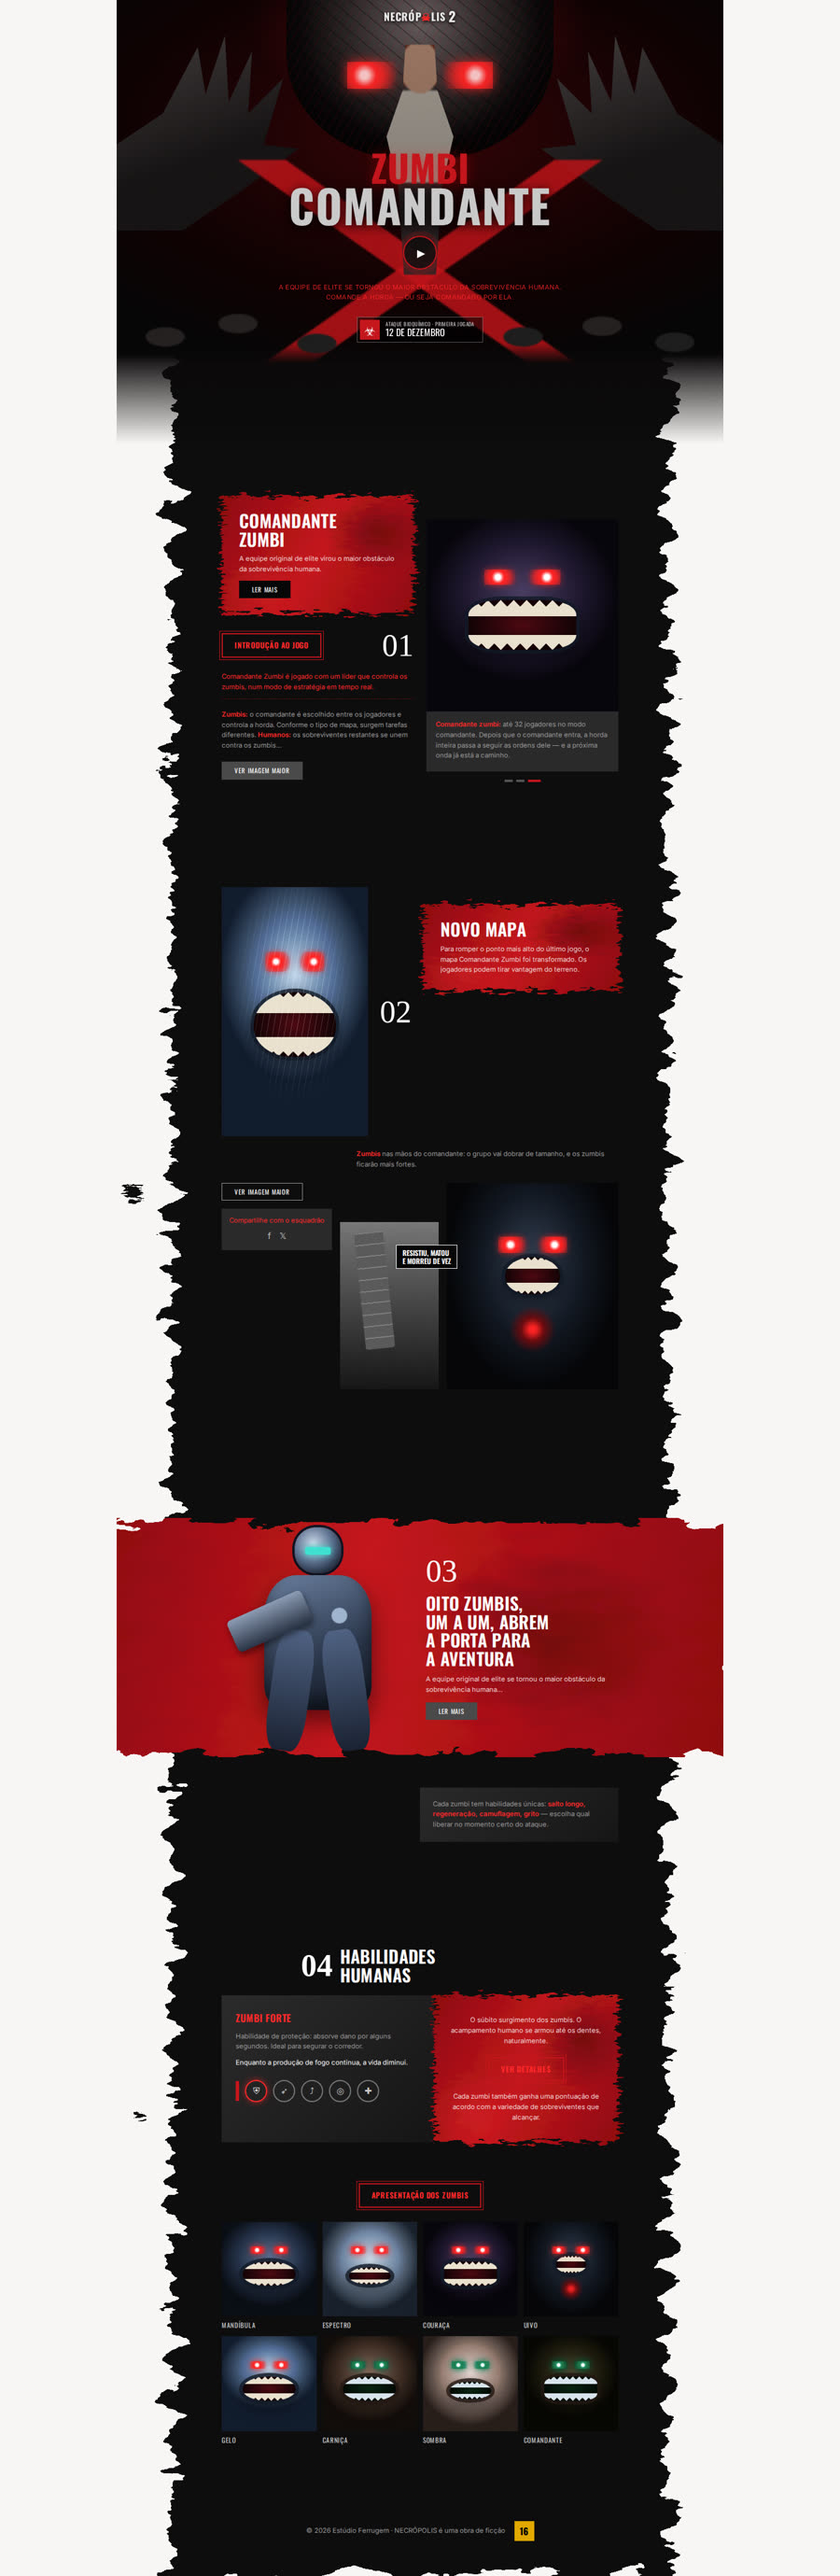
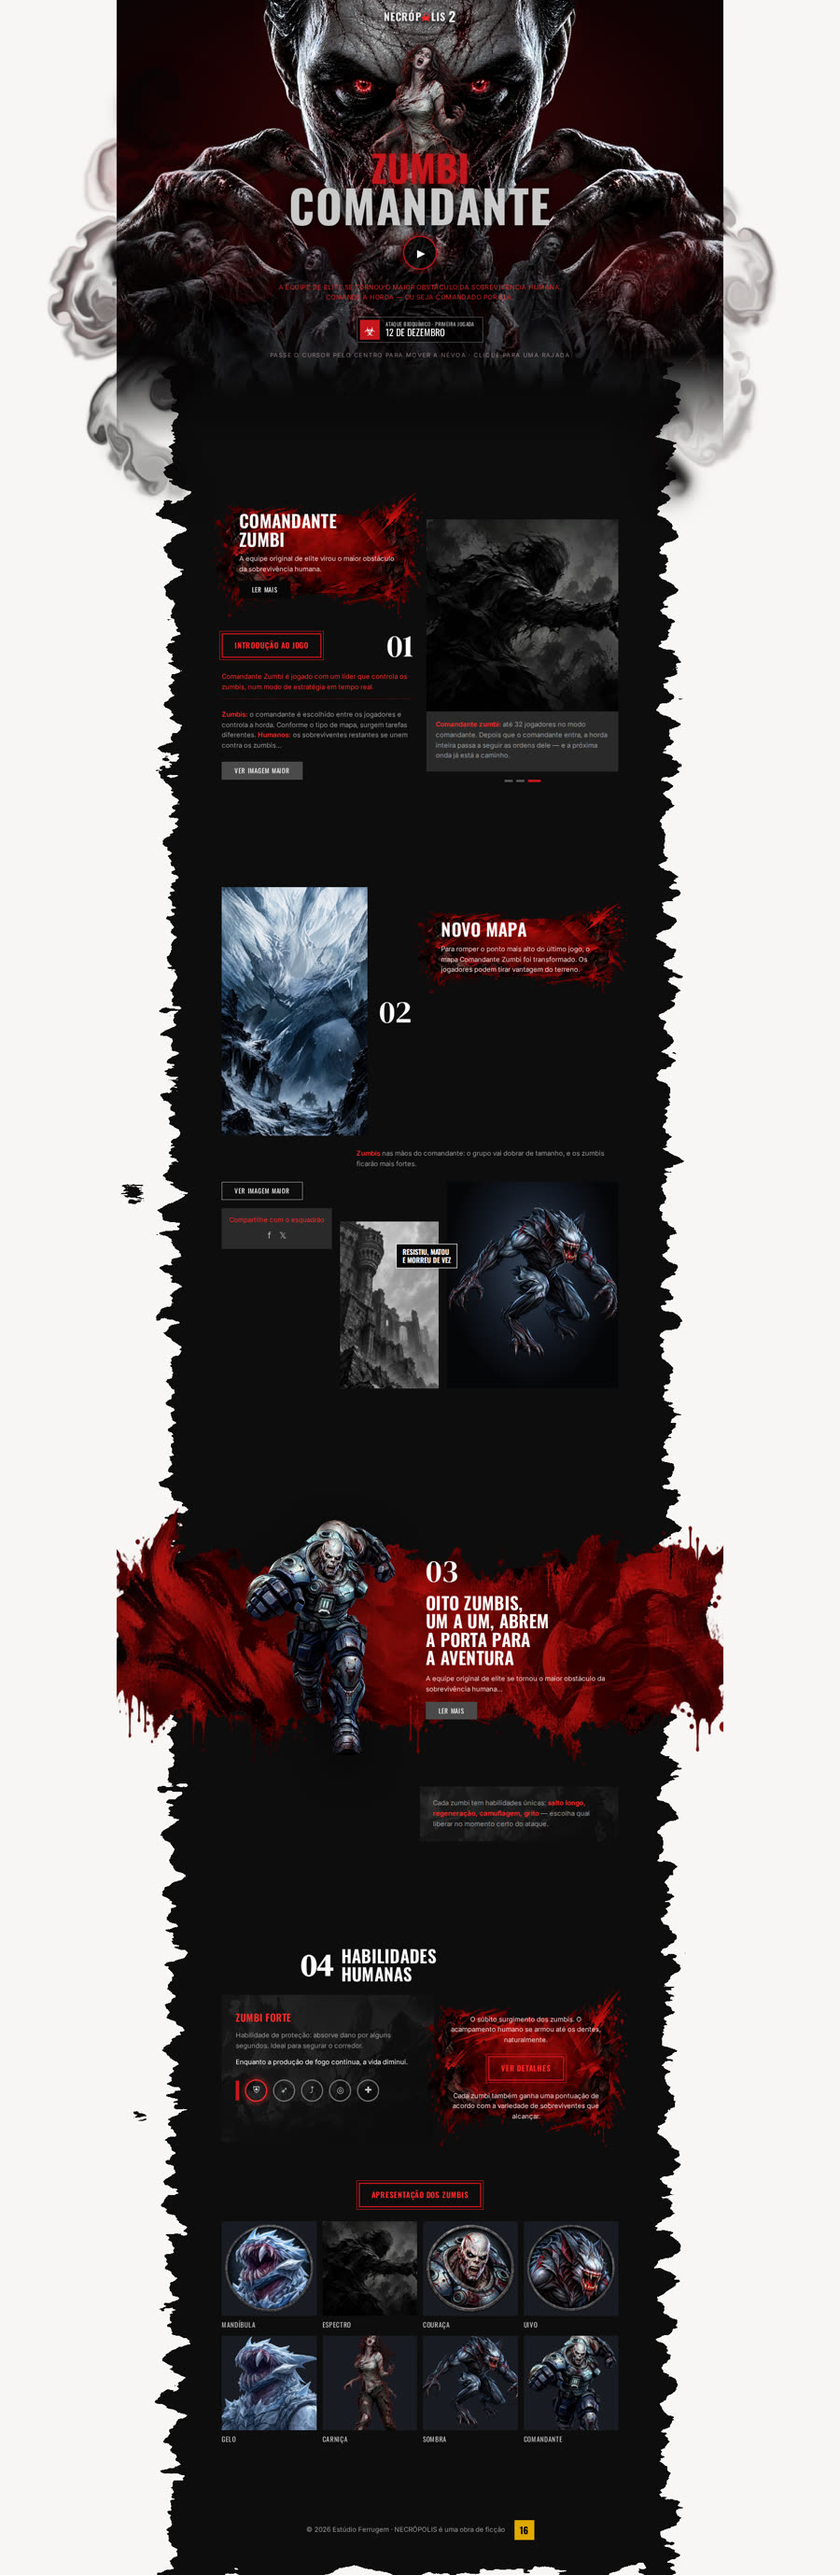
caso-12: imagens do Codex no lugar das composições em CSS
Usa as imagens de imagens-codex/01a10770…, convertidas para webp e
otimizadas (38 MB → 2,6 MB) em assets/fotos/:
- hero em camadas: rosto com garras, sobrevivente e horda;
- painéis 01/02/04 com a moldura em pincel e a faixa vermelha do 03;
- carrossel do 01 (fera de gelo, lobisomem, espectro), mapa 02
  (caverna de gelo, ruínas, lobisomem), soldado do 03;
- cartões escuros com a paisagem de fumaça;
- galeria com os medalhões (mandíbula, couraça, uivo) e as criaturas.
Remove o desenho em CSS que essas imagens substituem.

Claude-Session: https://claude.ai/code/session_01AG5rTn6CWeWC3iARPbKf2L

diff --git a/caso-12-jogo-necropolis/assets/styles.css b/caso-12-jogo-necropolis/assets/styles.css
@@ -96,26 +96,16 @@ a.btn3:hover { background: var(--red); color: #fff; }
 
 /* criaturas */
 .beast { background-image: radial-gradient(ellipse 60% 55% at 50% 40%, #6f8bb0, #2a3a55 55%, #0b1018 90%); }
-.beast .maw {
-  left: 22%; right: 22%; top: 42%; height: 26%;
-  border-radius: 50% 50% 46% 46%;
-  background:
-    conic-gradient(from 135deg at 50% 0, #ece5d4 90deg, transparent 0) 0 0 / 12% 32% repeat-x,
-    conic-gradient(from -45deg at 50% 100%, #ece5d4 90deg, transparent 0) 0 100% / 12% 30% repeat-x,
-    radial-gradient(ellipse at 50% 50%, #5a0a14, #160306 70%);
-  box-shadow: 0 0 0 6px rgba(20, 30, 45, .8), 0 10px 30px rgba(0, 0, 0, .6);
-}
-.beast .eyes { left: 30%; right: 30%; top: 26%; height: 8%; background: radial-gradient(circle at 18% 50%, #fff 0 4%, var(--red-glow) 10%, transparent 30%), radial-gradient(circle at 82% 50%, #fff 0 4%, var(--red-glow) 10%, transparent 30%); filter: drop-shadow(0 0 6px var(--red-glow)); }
 .beast-2 { background-image: radial-gradient(ellipse 60% 60% at 50% 40%, #d7e3ef, #7f94ad 50%, #1c2633 90%); }
-.beast-2 .maw { top: 48%; height: 18%; left: 28%; right: 28%; }
 .beast-3 { background-image: radial-gradient(ellipse 55% 50% at 50% 40%, #5b4d79, #241c37 55%, #08060d 90%); }
-.beast-3 .maw { border-radius: 30%; }
 .beast-wolf { background-image: radial-gradient(ellipse 50% 60% at 50% 40%, #3e4d63, #141b26 60%, #050608); }
-.beast-wolf .maw { top: 36%; left: 34%; right: 34%; height: 18%; }
-.beast-wolf::before { content: ""; position: absolute; left: 34%; right: 34%; top: 58%; height: 26%; background: radial-gradient(circle, var(--red-glow) 0 8%, #7a0c10 30%, transparent 60%); filter: blur(2px); z-index: 1; }
 .beast-tall { background-image: radial-gradient(ellipse 60% 50% at 50% 35%, #c9dbec, #5f7ea3 45%, #142135 85%); }
-.beast-tall .fur { inset: 0; background: repeating-linear-gradient(100deg, transparent 0 9px, rgba(255, 255, 255, .25) 9px 10px); -webkit-mask: radial-gradient(ellipse 60% 70% at 50% 40%, #000 30%, transparent 70%); mask: radial-gradient(ellipse 60% 70% at 50% 40%, #000 30%, transparent 70%); }
-.mini.alt { filter: hue-rotate(160deg) saturate(.7); }
+
+/* imagens reais (assets/fotos/*.webp) */
+.pic img { display: block; width: 100%; height: 100%; object-fit: cover; }
+.pic.fit-contain img { object-fit: contain; }
+.pic.fit-cover-top img { object-position: 50% 12%; }
+.pic::after { mix-blend-mode: overlay; opacity: .5; }
 
 /* =========================================================
    HERO
@@ -133,17 +123,10 @@ a.btn3:hover { background: var(--red); color: #fff; }
   -webkit-mask: linear-gradient(180deg, #000 80%, transparent);
           mask: linear-gradient(180deg, #000 80%, transparent);
 }
-.hero-art::after { mix-blend-mode: soft-light; }
-.zface { left: 28%; right: 28%; top: -16%; height: 52%; border-radius: 0 0 46% 46%; background: radial-gradient(ellipse 50% 60% at 50% 40%, #6d6464, #2f2a2a 55%, #0d0b0b 90%); box-shadow: inset 0 -30px 60px rgba(0, 0, 0, .8); }
-.zface::before { content: ""; position: absolute; inset: 0; background: repeating-linear-gradient(120deg, transparent 0 12px, rgba(170, 20, 25, .22) 12px 13px), repeating-linear-gradient(40deg, transparent 0 18px, rgba(0, 0, 0, .3) 18px 20px); border-radius: inherit; }
-.zeyes { left: 38%; right: 38%; top: 14%; height: 6%; background: radial-gradient(circle at 12% 50%, #ffd0d0 0 3%, var(--red-glow) 9%, transparent 26%), radial-gradient(circle at 88% 50%, #ffd0d0 0 3%, var(--red-glow) 9%, transparent 26%); filter: drop-shadow(0 0 10px var(--red-glow)); animation: eyes 3.8s ease-in-out infinite; }
-@keyframes eyes { 50% { opacity: .55; } }
-.claw { top: 8%; width: 32%; height: 44%; background: linear-gradient(160deg, #4a4545, #1a1717 60%); filter: blur(.6px) drop-shadow(0 8px 14px #000); }
-.claw.l { left: -2%; clip-path: polygon(0 60%, 30% 40%, 48% 6%, 52% 30%, 62% 0, 64% 34%, 76% 8%, 74% 40%, 92% 22%, 82% 56%, 100% 58%, 70% 80%, 40% 100%, 0 100%); }
-.claw.r { right: -2%; clip-path: polygon(100% 60%, 70% 40%, 52% 6%, 48% 30%, 38% 0, 36% 34%, 24% 8%, 26% 40%, 8% 22%, 18% 56%, 0 58%, 30% 80%, 60% 100%, 100% 100%); }
+.h-face { position: absolute; left: 50%; top: -2%; width: max(100%, 760px); height: auto; transform: translateX(-50%); -webkit-mask: linear-gradient(180deg, #000 55%, transparent 96%); mask: linear-gradient(180deg, #000 55%, transparent 96%); }
+.h-survivor { position: absolute; left: 50%; top: 9%; height: 60%; width: auto; transform: translateX(-50%); filter: drop-shadow(0 10px 30px rgba(0, 0, 0, .8)); }
+.h-horde { position: absolute; left: 50%; bottom: 7%; width: max(100%, 760px); height: auto; transform: translateX(-50%); opacity: .85; -webkit-mask: linear-gradient(180deg, #000 60%, transparent); mask: linear-gradient(180deg, #000 60%, transparent); }
 .x-slash { left: 50%; top: 36%; width: 80%; height: 50%; transform: translateX(-50%); background: linear-gradient(35deg, transparent 47%, rgba(196, 22, 28, .85) 47% 53%, transparent 53%), linear-gradient(-35deg, transparent 47%, rgba(196, 22, 28, .85) 47% 53%, transparent 53%); filter: blur(1.5px); }
-.survivor { left: 44%; top: 10%; width: 12%; height: 52%; background: radial-gradient(ellipse 34% 14% at 50% 10%, #d8a98c 0 80%, transparent 82%), radial-gradient(ellipse 48% 16% at 50% 7%, #7a2b1c 0 80%, transparent 82%), linear-gradient(180deg, transparent 20%, #d9d2c6 20% 60%, #3a3434 60%); clip-path: polygon(30% 0, 70% 0, 74% 20%, 96% 40%, 80% 62%, 72% 100%, 28% 100%, 20% 62%, 4% 40%, 26% 20%); filter: blur(1.6px) brightness(.8); opacity: .85; }
-.horde { left: 0; right: 0; bottom: 6%; height: 30%; background: radial-gradient(ellipse 4% 9% at 8% 40%, #2a2525 0 80%, transparent 82%), radial-gradient(ellipse 4% 9% at 20% 30%, #2a2525 0 80%, transparent 82%), radial-gradient(ellipse 4% 9% at 33% 45%, #222 0 80%, transparent 82%), radial-gradient(ellipse 4% 9% at 67% 40%, #222 0 80%, transparent 82%), radial-gradient(ellipse 4% 9% at 80% 32%, #2a2525 0 80%, transparent 82%), radial-gradient(ellipse 4% 9% at 92% 44%, #222 0 80%, transparent 82%), linear-gradient(180deg, transparent 45%, #0d0b0b 60%); filter: blur(1.2px); }
 
 .hero-title { position: absolute; left: 0; right: 0; top: 34%; z-index: 3; text-align: center; }
 .hero-title h1 { display: flex; flex-direction: column; align-items: center; font-family: var(--f-head); font-weight: 700; line-height: .9; text-transform: uppercase; }
@@ -171,11 +154,8 @@ a.btn3:hover { background: var(--red); color: #fff; }
 .brush { position: relative; isolation: isolate; display: flex; flex-direction: column; gap: 10px; padding: 26px 30px; }
 .brush::before {
   content: ""; position: absolute; inset: 0; z-index: -1;
-  background:
-    radial-gradient(ellipse 40% 50% at 80% 30%, rgba(0, 0, 0, .35), transparent 70%),
-    radial-gradient(ellipse 30% 40% at 20% 80%, rgba(255, 60, 60, .25), transparent 70%),
-    linear-gradient(120deg, var(--red-2), var(--red) 50%, var(--red-2));
-  filter: url(#brush);
+  inset: -10% -6%;
+  background: url("fotos/pincel-painel.webp") center / 100% 100% no-repeat;
 }
 .brush .t3 { color: #f1d6d6; }
 
@@ -205,30 +185,24 @@ a.btn3:hover { background: var(--red); color: #fff; }
 .share-icons { display: flex; justify-content: center; gap: 14px; margin-top: 6px; color: #bbb; font-size: 15px; }
 .share-icons a:hover { color: #fff; }
 .ruin { aspect-ratio: 1 / 1.7; background-image: linear-gradient(180deg, #8a8a8a, #3a3a3a 70%, #1a1a1a); filter: grayscale(1); }
-.pillar { left: 20%; top: 6%; width: 30%; height: 70%; background: repeating-linear-gradient(0deg, #6a6a6a 0 18px, #8f8f8f 18px 20px); border-radius: 4px; transform: rotate(-6deg); }
 .tag-box { position: absolute; left: 44%; top: 30%; z-index: 2; padding: 6px 10px; background: var(--black); border: 1px solid #fff; }
 .beast-wolf { aspect-ratio: 1 / 1.2; }
 
 /* 03 */
 .b03 { width: 100%; padding-left: 0; padding-right: 0; }
 .red-band { position: relative; display: grid; grid-template-columns: 1fr 1fr; align-items: center; gap: 20px; padding: 40px max(16px, calc((100% - 680px) / 2)); isolation: isolate; }
-.red-band::before { content: ""; position: absolute; inset: 10% -2%; z-index: -1; background: radial-gradient(ellipse 30% 60% at 70% 50%, rgba(0, 0, 0, .3), transparent 70%), linear-gradient(100deg, var(--red-2), var(--red) 40%, #a50f15 70%, var(--red-2)); filter: url(#ink); }
-.soldier { aspect-ratio: 1 / 1.25; background: transparent; overflow: visible; }
+.red-band::before { content: ""; position: absolute; inset: 4% -4%; z-index: -1; background: url("fotos/pincel-faixa.webp") center / 100% 100% no-repeat; }
+.soldier { aspect-ratio: 1 / 1.25; background: transparent; overflow: visible; filter: drop-shadow(0 20px 30px rgba(0, 0, 0, .55)); }
+.soldier img { object-fit: contain; }
 .soldier::after { display: none; }
-.helmet { left: 38%; top: 4%; width: 24%; aspect-ratio: 1; border-radius: 46%; background: radial-gradient(circle at 40% 35%, #c9d6e6, #5d7290 45%, #1c2636 80%); box-shadow: 0 0 0 4px #0d1320; }
-.helmet::after { content: ""; position: absolute; left: 22%; right: 22%; top: 44%; height: 16%; background: #3fe0d0; border-radius: 4px; box-shadow: 0 0 12px #3fe0d0; }
-.armor { left: 22%; top: 24%; width: 56%; height: 56%; border-radius: 30% 30% 18% 18%; background: radial-gradient(circle at 30% 30%, #9fb4cf 0 6%, transparent 7%), radial-gradient(circle at 70% 30%, #9fb4cf 0 6%, transparent 7%), linear-gradient(160deg, #6b80a0, #2a364a 60%, #131a26); box-shadow: inset 0 -20px 30px rgba(0, 0, 0, .5), 0 20px 40px rgba(0, 0, 0, .5); }
-.armor::before, .armor::after { content: ""; position: absolute; top: 40%; width: 36%; height: 90%; border-radius: 30%; background: linear-gradient(180deg, #4f6282, #1a2232); }
-.armor::before { left: 6%; transform: rotate(8deg); } .armor::after { right: 6%; transform: rotate(-8deg); }
-.gun { left: 4%; top: 36%; width: 42%; height: 14%; border-radius: 8px; background: linear-gradient(180deg, #8c9cb3, #2a3446); transform: rotate(-24deg); box-shadow: 0 6px 12px rgba(0, 0, 0, .5); }
 .b03-text { display: flex; flex-direction: column; gap: 12px; }
 .b03-text .t3 { color: #f1d6d6; }
-.dark-card { width: var(--col); margin: 10px auto 0; margin-right: max(16px, calc((100% - 680px) / 2)); max-width: 340px; padding: 20px 22px; background: linear-gradient(135deg, #2a2a2a, #161616); }
+.dark-card { width: var(--col); margin: 10px auto 0; margin-right: max(16px, calc((100% - 680px) / 2)); max-width: 340px; padding: 20px 22px; background: linear-gradient(135deg, rgba(30, 30, 30, .6), rgba(10, 10, 10, .85)), url("fotos/fumaca-paisagem.webp") center / cover; }
 
 /* 04 */
 .b04-title { display: flex; align-items: center; gap: 12px; margin-left: 20%; margin-bottom: 20px; }
 .b04-grid { display: grid; grid-template-columns: 1.15fr 1fr; gap: 0; }
-.skill-card { padding: 26px 24px; background: linear-gradient(135deg, #2b2b2b, #151515), var(--grain); display: flex; flex-direction: column; gap: 10px; }
+.skill-card { padding: 26px 24px; background: linear-gradient(135deg, rgba(20, 20, 20, .55), rgba(10, 10, 10, .85)), url("fotos/fumaca-paisagem.webp") center / cover; display: flex; flex-direction: column; gap: 10px; }
 .skill-card .strong { color: #fff; }
 .skills { display: flex; align-items: center; gap: 10px; margin-top: 10px; }
 .skill-bar { width: 6px; height: 34px; background: var(--red); }
@@ -275,7 +249,6 @@ a.btn3:hover { background: var(--red); color: #fff; }
   .zgal { grid-template-columns: repeat(2, 1fr); }
   .soldier { width: 70%; justify-self: center; }
   .dark-card { margin: 10px 16px 0; max-width: none; width: auto; }
-  .claw { width: 40%; }
 }
 
 @media (prefers-reduced-motion: reduce) {

diff --git a/caso-12-jogo-necropolis/index.html b/caso-12-jogo-necropolis/index.html
@@ -31,8 +31,7 @@
   </svg>
 
   <!--
-    IMAGENS: cada .ph tem data-photo="assets/fotos/<nome>.jpg". Coloque o arquivo com esse
-    nome em assets/fotos/ e ele substitui a composição em CSS automaticamente (app.js).
+    IMAGENS: arquivos .webp em assets/fotos/ (geradas no Codex, convertidas e otimizadas).
   -->
 
   <div class="wrap">
@@ -42,13 +41,11 @@
     <!-- ============ HERO ============ -->
     <header class="hero" id="inicio">
       <p class="game-logo">NECRÓP<span>☠</span>LIS <b>2</b></p>
-      <figure class="ph hero-art" data-photo="assets/fotos/hero-zumbi.jpg">
-        <i class="zface"></i><i class="zeyes"></i>
-        <i class="claw l"></i><i class="claw r"></i>
-        <i class="x-slash"></i>
-        <i class="survivor"></i>
-        <i class="horde"></i>
-        <span class="ph-tag">hero-zumbi.jpg</span>
+      <figure class="hero-art">
+        <img class="h-face" src="assets/fotos/hero-zumbi.webp" alt="Rosto de zumbi com olhos vermelhos e mãos com garras" decoding="async">
+        <i class="x-slash" aria-hidden="true"></i>
+        <img class="h-survivor" src="assets/fotos/hero-sobrevivente.webp" alt="Sobrevivente gritando" decoding="async">
+        <img class="h-horde" src="assets/fotos/hero-horda.webp" alt="Horda de zumbis" decoding="async">
       </figure>
       <div class="hero-title">
         <h1><span class="red">ZUMBI</span><span class="grey">COMANDANTE</span></h1>
@@ -79,9 +76,9 @@
         </div>
         <div class="b01-right reveal">
           <div class="slider" data-slider>
-            <figure class="ph beast beast-1 is-on" data-photo="assets/fotos/criatura-01.jpg"><i class="maw"></i><i class="eyes"></i><span class="ph-tag">criatura-01.jpg</span></figure>
-            <figure class="ph beast beast-2" data-photo="assets/fotos/criatura-02.jpg"><i class="maw"></i><i class="eyes"></i><span class="ph-tag">criatura-02.jpg</span></figure>
-            <figure class="ph beast beast-3" data-photo="assets/fotos/criatura-03.jpg"><i class="maw"></i><i class="eyes"></i><span class="ph-tag">criatura-03.jpg</span></figure>
+            <figure class="ph pic beast is-on fit-cover"><img src="assets/fotos/criatura-gelo.webp" alt="Fera de gelo com a boca aberta" decoding="async"></figure>
+            <figure class="ph pic beast fit-contain"><img src="assets/fotos/lobisomem.webp" alt="Lobisomem zumbi agachado" decoding="async"></figure>
+            <figure class="ph pic beast fit-cover"><img src="assets/fotos/espectro.webp" alt="Espectro de fumaça estendendo as garras" decoding="async"></figure>
             <p class="t3 cap"><b class="red">Comandante zumbi:</b> até 32 jogadores no modo comandante. Depois que o comandante entra, a horda inteira passa a seguir as ordens dele — e a próxima onda já está a caminho.</p>
           </div>
           <div class="dots" role="tablist" aria-label="Imagens">
@@ -95,7 +92,7 @@
       <!-- ============ 02 · NOVO MAPA ============ -->
       <section class="block b02" id="novo-mapa" aria-labelledby="t02">
         <div class="b02-top">
-          <figure class="ph beast beast-tall reveal" data-photo="assets/fotos/mapa-criatura.jpg"><i class="maw"></i><i class="eyes"></i><i class="fur"></i><span class="ph-tag">mapa-criatura.jpg</span></figure>
+          <figure class="ph pic beast-tall reveal fit-cover"><img src="assets/fotos/mapa-caverna.webp" alt="Caverna de gelo do novo mapa" loading="lazy" decoding="async"></figure>
           <span class="num">02</span>
           <div class="brush reveal">
             <h2 class="h2" id="t02">Novo mapa</h2>
@@ -111,16 +108,16 @@
               <div class="share-icons"><a href="#" aria-label="Facebook">f</a><a href="#" aria-label="X">𝕏</a></div>
             </div>
           </div>
-          <figure class="ph ruin reveal" data-photo="assets/fotos/mapa-ruina.jpg"><i class="pillar"></i><span class="ph-tag">mapa-ruina.jpg</span></figure>
+          <figure class="ph pic ruin reveal fit-cover"><img src="assets/fotos/mapa-ruina.webp" alt="Ruínas de um castelo sob nuvens" loading="lazy" decoding="async"></figure>
           <p class="t2 tag-box">Resistiu, matou<br>e morreu de vez</p>
-          <figure class="ph beast beast-wolf reveal" data-photo="assets/fotos/mapa-lobisomem.jpg"><i class="maw"></i><i class="eyes"></i><span class="ph-tag">mapa-lobisomem.jpg</span></figure>
+          <figure class="ph pic beast-wolf reveal fit-contain"><img src="assets/fotos/lobisomem.webp" alt="Lobisomem zumbi" loading="lazy" decoding="async"></figure>
         </div>
       </section>
 
       <!-- ============ 03 · OITO ZUMBIS ============ -->
       <section class="block b03" id="oito-zumbis" aria-labelledby="t03">
         <div class="red-band">
-          <figure class="ph soldier reveal" data-photo="assets/fotos/soldado.png"><i class="helmet"></i><i class="armor"></i><i class="gun"></i><span class="ph-tag">soldado.png</span></figure>
+          <figure class="ph pic soldier reveal fit-contain"><img src="assets/fotos/soldado.webp" alt="Soldado zumbi de armadura avançando" loading="lazy" decoding="async"></figure>
           <div class="b03-text reveal">
             <span class="num">03</span>
             <h2 class="h2" id="t03">Oito zumbis,<br>um a um, abrem<br>a porta para<br>a aventura</h2>
@@ -160,14 +157,14 @@
         <div class="present" id="apresentacao">
           <span class="btn3">Apresentação dos zumbis</span>
           <ul class="zgal">
-            <li class="reveal"><figure class="ph beast beast-1 mini" data-photo="assets/fotos/zumbi-01.jpg"><i class="maw"></i><i class="eyes"></i><span class="ph-tag">zumbi-01.jpg</span></figure><p class="t3">Mandíbula</p></li>
-            <li class="reveal"><figure class="ph beast beast-2 mini" data-photo="assets/fotos/zumbi-02.jpg"><i class="maw"></i><i class="eyes"></i><span class="ph-tag">zumbi-02.jpg</span></figure><p class="t3">Espectro</p></li>
-            <li class="reveal"><figure class="ph beast beast-3 mini" data-photo="assets/fotos/zumbi-03.jpg"><i class="maw"></i><i class="eyes"></i><span class="ph-tag">zumbi-03.jpg</span></figure><p class="t3">Couraça</p></li>
-            <li class="reveal"><figure class="ph beast beast-wolf mini" data-photo="assets/fotos/zumbi-04.jpg"><i class="maw"></i><i class="eyes"></i><span class="ph-tag">zumbi-04.jpg</span></figure><p class="t3">Uivo</p></li>
-            <li class="reveal"><figure class="ph beast beast-tall mini" data-photo="assets/fotos/zumbi-05.jpg"><i class="maw"></i><i class="eyes"></i><span class="ph-tag">zumbi-05.jpg</span></figure><p class="t3">Gelo</p></li>
-            <li class="reveal"><figure class="ph beast beast-1 mini alt" data-photo="assets/fotos/zumbi-06.jpg"><i class="maw"></i><i class="eyes"></i><span class="ph-tag">zumbi-06.jpg</span></figure><p class="t3">Carniça</p></li>
-            <li class="reveal"><figure class="ph beast beast-2 mini alt" data-photo="assets/fotos/zumbi-07.jpg"><i class="maw"></i><i class="eyes"></i><span class="ph-tag">zumbi-07.jpg</span></figure><p class="t3">Sombra</p></li>
-            <li class="reveal"><figure class="ph beast beast-3 mini alt" data-photo="assets/fotos/zumbi-08.jpg"><i class="maw"></i><i class="eyes"></i><span class="ph-tag">zumbi-08.jpg</span></figure><p class="t3">Comandante</p></li>
+            <li class="reveal"><figure class="ph pic mini fit-contain"><img src="assets/fotos/medalhao-mandibula.webp" alt="Mandíbula" loading="lazy" decoding="async"></figure><p class="t3">Mandíbula</p></li>
+            <li class="reveal"><figure class="ph pic mini fit-cover"><img src="assets/fotos/espectro.webp" alt="Espectro" loading="lazy" decoding="async"></figure><p class="t3">Espectro</p></li>
+            <li class="reveal"><figure class="ph pic mini fit-contain"><img src="assets/fotos/medalhao-couraca.webp" alt="Couraça" loading="lazy" decoding="async"></figure><p class="t3">Couraça</p></li>
+            <li class="reveal"><figure class="ph pic mini fit-contain"><img src="assets/fotos/medalhao-uivo.webp" alt="Uivo" loading="lazy" decoding="async"></figure><p class="t3">Uivo</p></li>
+            <li class="reveal"><figure class="ph pic mini fit-cover"><img src="assets/fotos/criatura-gelo.webp" alt="Gelo" loading="lazy" decoding="async"></figure><p class="t3">Gelo</p></li>
+            <li class="reveal"><figure class="ph pic mini fit-cover-top"><img src="assets/fotos/hero-sobrevivente.webp" alt="Carniça" loading="lazy" decoding="async"></figure><p class="t3">Carniça</p></li>
+            <li class="reveal"><figure class="ph pic mini fit-cover"><img src="assets/fotos/lobisomem.webp" alt="Sombra" loading="lazy" decoding="async"></figure><p class="t3">Sombra</p></li>
+            <li class="reveal"><figure class="ph pic mini fit-cover-top"><img src="assets/fotos/soldado.webp" alt="Comandante" loading="lazy" decoding="async"></figure><p class="t3">Comandante</p></li>
           </ul>
         </div>
       </section>
